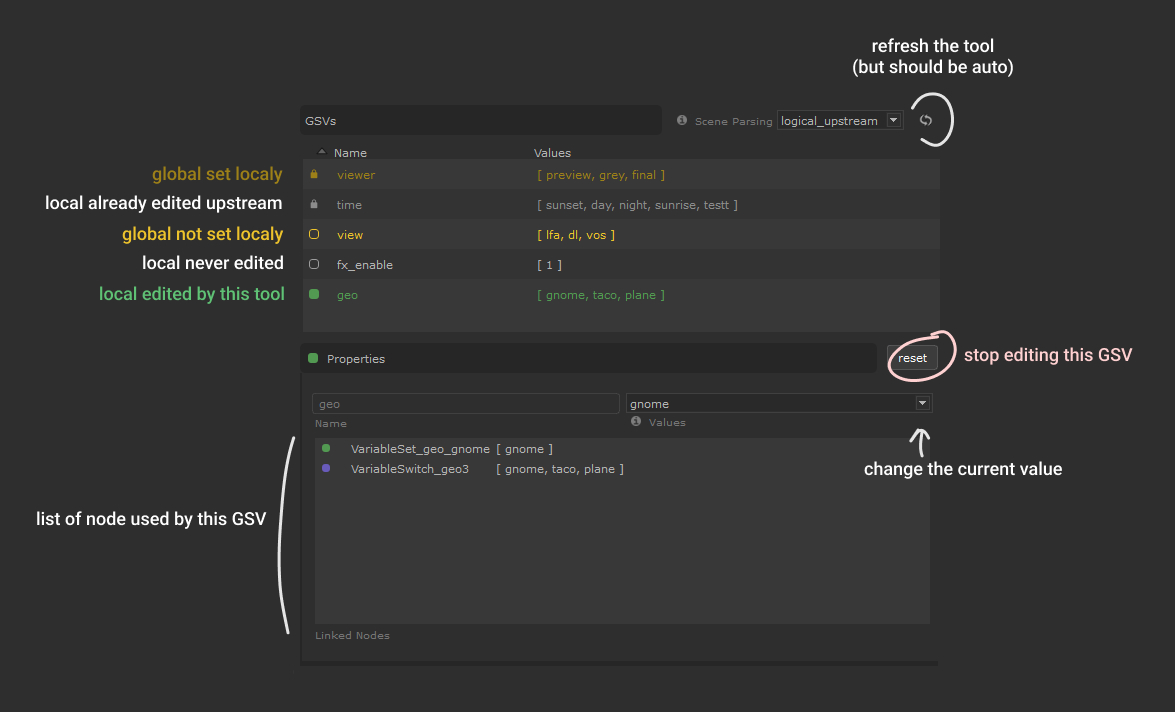
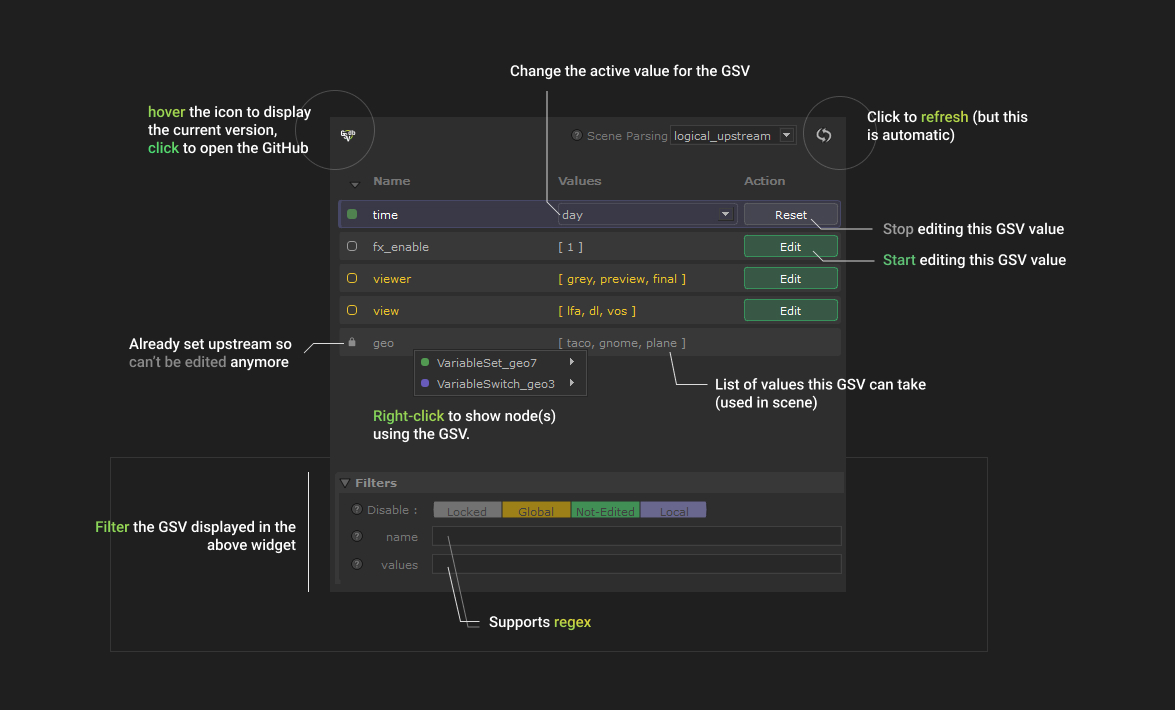
documentation update for 2.0.0

Changed region(s): [[0.0306, 0.031, 0.9498, 0.8986], [0.4289, 0.093, 0.6434, 0.1239], [0.5209, 0.5577, 0.5821, 0.6197]]

diff --git a/GSVDashboard/v1/GSV.py b/GSVDashboard/v1/GSV.py
@@ -47,12 +47,22 @@ logger = logging.getLogger("{}.Node".format(c.name))
 TIME = NodegraphAPI.GetCurrentTime()
 
 
+def get_opscript_gsv_name(knode):
+
+    lua_script = knode.getParameter("lua.script").getValue()
+
+    return
+
+
 class GSVSettings(dict):
     """
     A regular dictionary object with a fixed structure. Structure is verified
     through ``validate()`` method.
 
     Used to configure the output result of the scene parsing.
+
+    [nodes.X.name](str or callable):
+    [nodes.X.values](str or callable):
 
     [excluded.asGroupsNodeType](list of str):
         list of node type that should not be considered as groups and children
@@ -82,6 +92,11 @@ class GSVSettings(dict):
             },
             "VariableDelete": {
                 "action": "setter",
+                "name": "variableName",
+                "values": gsv_delete
+            },
+            "OpScript": {
+                "action": "getter",
                 "name": "variableName",
                 "values": gsv_delete
             }
@@ -235,9 +250,11 @@ class GSVNode(object):
 
         self.gsv_action = self.scene.settings["nodes"][self.type]["action"]
 
-        self.gsv_name = self.get_parameter(
-            param_path=self.scene.settings["nodes"][self.type]["name"]
-        )[0]
+        gsvname = self.scene.settings["nodes"][self.type]["name"]
+        if isinstance(gsvname, str):
+            self.gsv_name = self.get_parameter(param_path=gsvname)[0]
+        elif callable(gsvname):
+            self.gsv_name = gsvname(node)
 
         values_param = self.scene.settings["nodes"][self.type]["values"]
         if values_param == GSVSettings.gsv_delete:

diff --git a/doc/INDEX.md b/doc/INDEX.md
@@ -1,6 +1,6 @@
-# ![logo](img/logo.svg) Index
+#  <img src="img/logo.svg" width="32"> Index
 
-Welcome on the GSVDB supertool's documentation.
+Welcome on the GSVDb supertool's documentation.
 
 [![root](https://img.shields.io/badge/back_to_root-536362?)](../README.md)
 
@@ -16,17 +16,55 @@ location registered by the `KATANA_RESOURCES` env variable.
 "KATANA_RESOURCES=%ROOT%"
 ```
 
-> Tested on Katana 4.0v2 and 4.5v1, no guarantee it works on lower versions
-> (but it should).
+> Tested on Katana 3.6v5, 4.0v2 and 4.5v1, no guarantee it works on lower
+> versions (but it should).
 
 ## Use
 
-
 ![preview image of gsvdb node with annotations](img/doc-ui-look.jpg)
 
-Make sure the node is always viewed when using `logical_upstream` mode.
+> ⚠ Make sure the node is always viewed when using `logical_upstream` mode.
 
-**Some reminder about GSVs :**
+### Filtering
+
+You can filter per-node the GSV listed in the widget. You have 3 options :
+
+#### Disable
+
+![parameter screenshot](img/doc-filters-disable.png)
+
+By default all 4 types are enabled.
+
+You can choose to disable the GSV type specified in the label. Like clicking
+`Not-Edited` will remove all GSV that are not currently edited by this SuperTool
+node.
+
+The node is a capsule widget. To set it with an expression you can use a comma
+separated list of labels like   
+> `"Locked, Global, Local"`
+
+#### names
+
+Only display GSV names matching this regular expression.
+
+The expression is Python regex formatted. 
+It is evaluated using `re.search(gsv_name)`
+
+> 💡 **tips**
+> 
+> If you want to exclude names instead of isolating them, you can
+> use the regex syntax `[^...]` .  
+> Example: `[^fx_enable][^shading]` will exclude all GSVs names matching 
+> `fx_enable` and `shading`.
+
+#### values
+
+Only display GSV who got at least one value matching this regular expression.
+
+The expression is Python regex formatted. 
+It is evaluated using `re.search(gsv_value)`
+
+### Some reminder about GSVs :
 
 - Only the most upstream "Setter" node determine which GSV value is being used.
 That's why if a GSV is edited upstream , it became locked. A GSV is considered
@@ -38,6 +76,8 @@ This mean you can't use the "GSV Menu Bar" (at top) anymore for this variable.
 
 ### Parsing settings
 
+Change how upstream nodes are found.
+
 ![preview gif of gsvdb parsing settings configuration](img/doc-parse-settings.gif)
 
 
@@ -48,7 +88,7 @@ excluded_gsv_names = ["gaffersate"]
 excluded_as_groupnode_type = ["GafferThree", "Importomatic"]
 ```
 
-You can specify scene parsing settings using user parameters. Root of these
+You can specify scene parsing settings using `user parameters`. Root of these
 parameters can be one of (are in resolution order) :
 
 - on a node named `GSVDB_config`

diff --git a/README.md b/README.md
@@ -1,14 +1,13 @@
-# ![SuperTool](https://img.shields.io/badge/SuperTool-333333?labelColor=blueviolet) GSV Dashboard (GSVDB)
+# ![SuperTool](https://img.shields.io/badge/SuperTool-333333?labelColor=blueviolet) GSVDashboard
 
-![Python](https://img.shields.io/badge/Python-2+-4f4f4f?labelColor=FED142&logo=python)
-![katana version](https://img.shields.io/badge/Katana-4.0+-4f4f4f?labelColor=111111&logo=katana&logoColor=FCB123)
-[![License](https://img.shields.io/badge/⚖_license-Apache_2.0-4f4f4f?labelColor=blue)](LICENSE.md)
+![Python](https://img.shields.io/badge/Python-2+-4f4f4f?labelColor=3776ab&logo=python&logoColor=FED142)
+![katana version](https://img.shields.io/badge/Katana-3.6+-4f4f4f?labelColor=111111&logo=katana&logoColor=FCB123)
 
 
 Preview and edit the Graph State Variables (GSV) at the current point in your
-nodegraph (or anywhere). List local and global GSVs.
+nodegraph (or anywhere).
 
-![demo gif](./doc/img/demo.gif)
+![demo gif](./doc/img/cover.jpg)
 
 # Features
 
@@ -20,7 +19,8 @@ nodegraph (or anywhere). List local and global GSVs.
 - List all the GSV values *used in parsed scene*.
 - Non-already-edited GSV can be edited using the possible values found.
 - Listing of node using X selected GSV. (node can be selected)
-- Scene parsing setting can be set from a node in the scene.
+- Filter GSV displayed based on type / name / values (with regex).
+- Scene parsing setting can be set from a node in the scene for all GSVDb nodes.
 
 # Documentation
 
